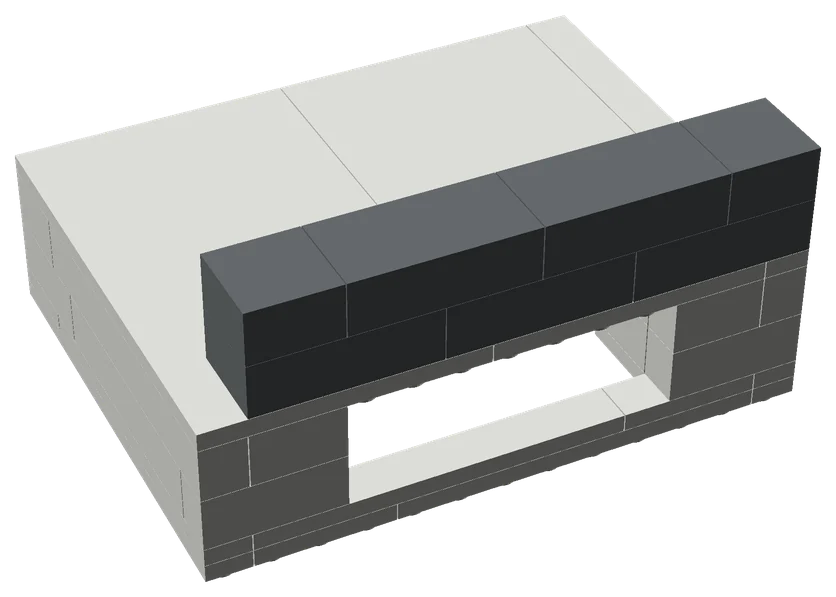
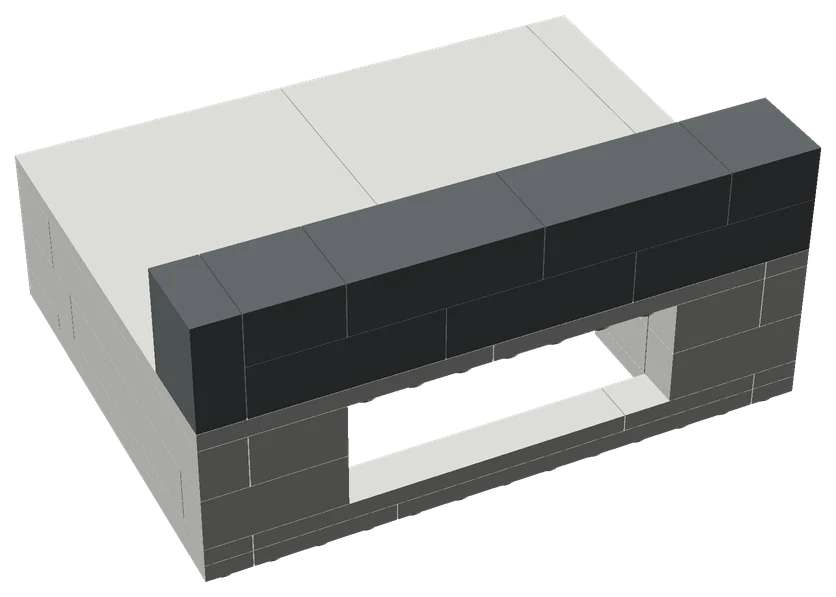
Screen page: the tray's fiftieth brick, at the left end of the foot
Claude-Session: https://claude.ai/code/session_01T5obJLGpxqm4RGcUwvyqqe

Changed region(s): [[0.1555, 0.4221, 0.311, 0.7236]]

diff --git a/web/screen/index.html b/web/screen/index.html
@@ -266,15 +266,15 @@ p.small code { overflow-wrap: anywhere; }
 <div><p class="kick">A stand from bricks</p><h2 id="trayh">Build it a Lego tray</h2></div></div>
 <div class="buy">
 <div>
-<p class="stand">A tray of ordinary Lego bricks that holds the VOXBOX <em>at a tilt</em>: 49 parts, seven steps.</p>
+<p class="stand">A tray of ordinary Lego bricks that holds the VOXBOX <em>at a tilt</em>: 50 parts, seven steps.</p>
 <p class="caveat"><b>Built once.</b> I put a prototype together from loose bricks on 15 November 2026 and it worked well. That is one build, from the bricks I had, not checked brick for brick against the list; <a href="#tray-built">a photo and a short film</a> are below. Its sizes are read from photos of the real box, not taken with a ruler, and the tightest gap is 1.2 mm, so try the fit with the real boards at step 4.</p>
 <p class="caveat"><b>The picture is turned, but not in the download yet.</b> The boards sit in the tray with their cables out of the back, so the picture has to be turned half a turn. A build that does it (test 15) runs on my own box and is in <a href="https://github.com/stephencummins/aisling-viz-box/pull/2">the code</a>; the ready-built download on this page is still test 8, which reads upside down in the tray.</p>
 <p class="vids"><a class="btn go big" href="voxbox-lego-tray.ldr" download>Download the model</a><a class="btn big" href="voxbox-lego-tray-bricklink.xml" download>Shopping list</a></p>
-<p class="small" style="margin-top:14px">voxbox-lego-tray.ldr, an LDraw file, 2,670 bytes. It opens in BrickLink's free Studio; how is in the small print below. The shopping list is the same 49 parts as a BrickLink wanted list in the drawing's colours, 1,404 bytes; <a href="#tray-shop">how to use it</a> is below the steps.</p>
+<p class="small" style="margin-top:14px">voxbox-lego-tray.ldr, an LDraw file, 2,715 bytes. It opens in BrickLink's free Studio; how is in the small print below. The shopping list is the same 50 parts as a BrickLink wanted list in the drawing's colours, 1,497 bytes; <a href="#tray-shop">how to use it</a> is below the steps.</p>
 <ul class="facts">
 <li><b>13 × 10</b>studs across, 104 × 80 mm</li>
 <li><b>11 × 7</b>studs of pocket, 88 × 56 mm</li>
-<li><b>49</b>parts, 13 kinds</li>
+<li><b>50</b>parts, 14 kinds</li>
 </ul>
 </div>
 <div>
@@ -299,16 +299,16 @@ p.small code { overflow-wrap: anywhere; }
 <li><img src="img/lego/step4.webp" width="936" height="745" loading="lazy" alt="Step 4, drawn: three pillars and the stop, the new parts in orange, the front wall drawn see-through"><b>Three pillars and the stop</b><span>6 × Brick 2 × 2, 4 × Tile 2 × 2. Try the two boards in the pocket here, before the wall's plates go on. If the pins touch the floor, add one Plate 2 × 2 under each pillar's tile.</span></li>
 <li><img src="img/lego/step5.webp" width="929" height="750" loading="lazy" alt="Step 5, drawn: the first layer of plates on the wall, the new parts in orange"><b>The first layer of plates on the wall</b><span>2 × Plate 2 × 6, 1 × Plate 1 × 10, 2 × Plate 1 × 8, 1 × Plate 1 × 3.</span></li>
 <li><img src="img/lego/step6.webp" width="910" height="746" loading="lazy" alt="Step 6, drawn: the second layer of plates, the new parts in orange"><b>The second layer of plates</b><span>1 × Plate 1 × 10, 2 × Plate 2 × 6, 2 × Plate 1 × 8, 1 × Plate 1 × 3.</span></li>
-<li><img src="img/lego/step7.webp" width="836" height="597" loading="lazy" alt="Step 7, drawn: the foot under the back edge, the new parts in orange"><b>The foot under the back edge</b><span>5 × Brick 2 × 4, 2 × Brick 2 × 2.</span></li>
+<li><img src="img/lego/step7.webp" width="836" height="597" loading="lazy" alt="Step 7, drawn: the foot under the back edge, the new parts in orange"><b>The foot under the back edge</b><span>5 × Brick 2 × 4, 2 × Brick 2 × 2, 1 × Brick 1 × 2 × 2.</span></li>
 </ol>
 <h3 class="sub" id="tray-shop">Buying the bricks</h3>
-<p class="small">The shopping list, voxbox-lego-tray-bricklink.xml, is not a file to open and read. It is the parts list in the form that BrickLink, the marketplace for Lego parts, takes: paste it in and the 49 parts are on a wanted list in your account, with nothing typed by hand.</p>
+<p class="small">The shopping list, voxbox-lego-tray-bricklink.xml, is not a file to open and read. It is the parts list in the form that BrickLink, the marketplace for Lego parts, takes: paste it in and the 50 parts are on a wanted list in your account, with nothing typed by hand.</p>
 <ol class="plain">
 <li>Press Shopping list above; the file lands in your downloads.</li>
 <li>Open it in a plain text editor (TextEdit on a Mac, Notepad on Windows), select all of it and copy.</li>
 <li>Sign in at bricklink.com. An account is free.</li>
 <li>Open Wanted, then Upload, then the tab Upload BrickLink XML format.</li>
-<li>Paste into the box and press Proceed to verify items. BrickLink shows 15 lines, each with its picture, name, colour and quantity. Nothing is added yet.</li>
+<li>Paste into the box and press Proceed to verify items. BrickLink shows 16 lines, each with its picture, name, colour and quantity. Nothing is added yet.</li>
 <li>Press Add to Wanted List.</li>
 <li>Wanted's Buy tab then looks for shops that hold the parts between them. You pay those shops, and postage to each.</li>
 </ol>
@@ -433,14 +433,14 @@ or Edge still paints the full landscape from an FM-1 plugged into the computer.<
 </div>
 </div>
 </div></details>
-<details id="tray-parts"><summary>The tray's parts <small>49 bricks, plates and tiles</small></summary><div class="in">
-<table class="parts"><thead><tr><th>How many</th><th>Part</th><th>LDraw number</th></tr></thead><tbody><tr><td>10</td><td>Brick 2 × 4</td><td>3001</td></tr><tr><td>2</td><td>Brick 1 × 8</td><td>3008</td></tr><tr><td>1</td><td>Brick 2 × 3</td><td>3002</td></tr><tr><td>2</td><td>Brick 1 × 6</td><td>3009</td></tr><tr><td>8</td><td>Brick 2 × 2</td><td>3003</td></tr><tr><td>4</td><td>Brick 1 × 3</td><td>3622</td></tr><tr><td>3</td><td>Brick 1 × 2</td><td>3004</td></tr><tr><td>2</td><td>Plate 6 × 10</td><td>3033</td></tr><tr><td>4</td><td>Plate 2 × 6</td><td>3795</td></tr><tr><td>3</td><td>Plate 1 × 10</td><td>4477</td></tr><tr><td>4</td><td>Plate 1 × 8</td><td>3460</td></tr><tr><td>4</td><td>Tile 2 × 2</td><td>3068b</td></tr><tr><td>2</td><td>Plate 1 × 3</td><td>3623</td></tr></tbody></table>
+<details id="tray-parts"><summary>The tray's parts <small>50 bricks, plates and tiles</small></summary><div class="in">
+<table class="parts"><thead><tr><th>How many</th><th>Part</th><th>LDraw number</th></tr></thead><tbody><tr><td>10</td><td>Brick 2 × 4</td><td>3001</td></tr><tr><td>2</td><td>Brick 1 × 8</td><td>3008</td></tr><tr><td>1</td><td>Brick 2 × 3</td><td>3002</td></tr><tr><td>2</td><td>Brick 1 × 6</td><td>3009</td></tr><tr><td>8</td><td>Brick 2 × 2</td><td>3003</td></tr><tr><td>4</td><td>Brick 1 × 3</td><td>3622</td></tr><tr><td>3</td><td>Brick 1 × 2</td><td>3004</td></tr><tr><td>1</td><td>Brick 1 × 2 × 2</td><td>3245b</td></tr><tr><td>2</td><td>Plate 6 × 10</td><td>3033</td></tr><tr><td>4</td><td>Plate 2 × 6</td><td>3795</td></tr><tr><td>3</td><td>Plate 1 × 10</td><td>4477</td></tr><tr><td>4</td><td>Plate 1 × 8</td><td>3460</td></tr><tr><td>4</td><td>Tile 2 × 2</td><td>3068b</td></tr><tr><td>2</td><td>Plate 1 × 3</td><td>3623</td></tr></tbody></table>
 <p>The tray is drawn around sizes read from photos of the real box, scaled by its 2.54 mm pin spacing and good to about 0.7 mm; none has been checked with a ruler. The screen's board is 85.5 × 56 mm, its nominal size. Under it, the small board's face is 17.9 mm down and the tips of its soldered pins 19.5 mm; above it, the glass is 4.6 mm up.</p>
 <p>On pillars of 22.4 mm the pin tips clear the floor's studs by 1.2 mm, which is about the size of the measuring error. If they touch, one Plate 2 × 2 under each pillar's tile lifts the boards 3.2 mm. The glass stands about 1.3 mm above the wall's studs. The tile on the floor carries nothing: it sits 1.3 mm under the small board and stops that corner dipping when the screen is pressed.</p>
 </div></details>
 <details id="tray-buy"><summary>Buying the tray's bricks <small>a BrickLink wanted list</small></summary><div class="in">
 <p>There is no kit to buy yet. The steps for using the shopping list are <a href="#tray-shop">under the tray's seven steps</a>; these are its details.</p>
-<p>The list asks for each part in the colour it is drawn in: light bluish grey for the floor, dark bluish grey for the wall's bricks and the foot, black for the wall's plates, orange for the pillars and the stop. That makes 15 lines for 13 kinds of part, as two kinds come in two colours. No colour matters to the fit; change any of them on BrickLink's check page or in the wanted list, to whatever is cheap or to your taste. It asks for new or used alike. BrickLink calls the 2 × 2 tile 3068, where the model and the parts list above say 3068b; they are the same tile. BrickLink took the list on 15 November 2026, as far as step 5; I did not add it or go on to buy, so steps 6 and 7 are as BrickLink names them, not tried. The prices, the postage and the sale are between you and BrickLink's shops; I take no part in them and earn nothing from them.</p>
+<p>The list asks for each part in the colour it is drawn in: light bluish grey for the floor, dark bluish grey for the wall's bricks and the foot, black for the wall's plates, orange for the pillars and the stop. That makes 16 lines for 14 kinds of part, as two kinds come in two colours. No colour matters to the fit; change any of them on BrickLink's check page or in the wanted list, to whatever is cheap or to your taste. It asks for new or used alike. BrickLink calls the 2 × 2 tile 3068, where the model and the parts list above say 3068b; they are the same tile. BrickLink took the first 15 lines on 15 November 2026, as far as step 5; the sixteenth, the Brick 1 × 2 × 2 (BrickLink's 3245b), was added afterwards and checked only against BrickLink's catalogue, which lists it in dark bluish grey; I did not add it or go on to buy, so steps 6 and 7 are as BrickLink names them, not tried. The prices, the postage and the sale are between you and BrickLink's shops; I take no part in them and earn nothing from them.</p>
 </div></details>
 <details id="tray-studio"><summary>Opening the tray in Studio <small>the file, its steps, its parts</small></summary><div class="in">
 <ol class="plain">
